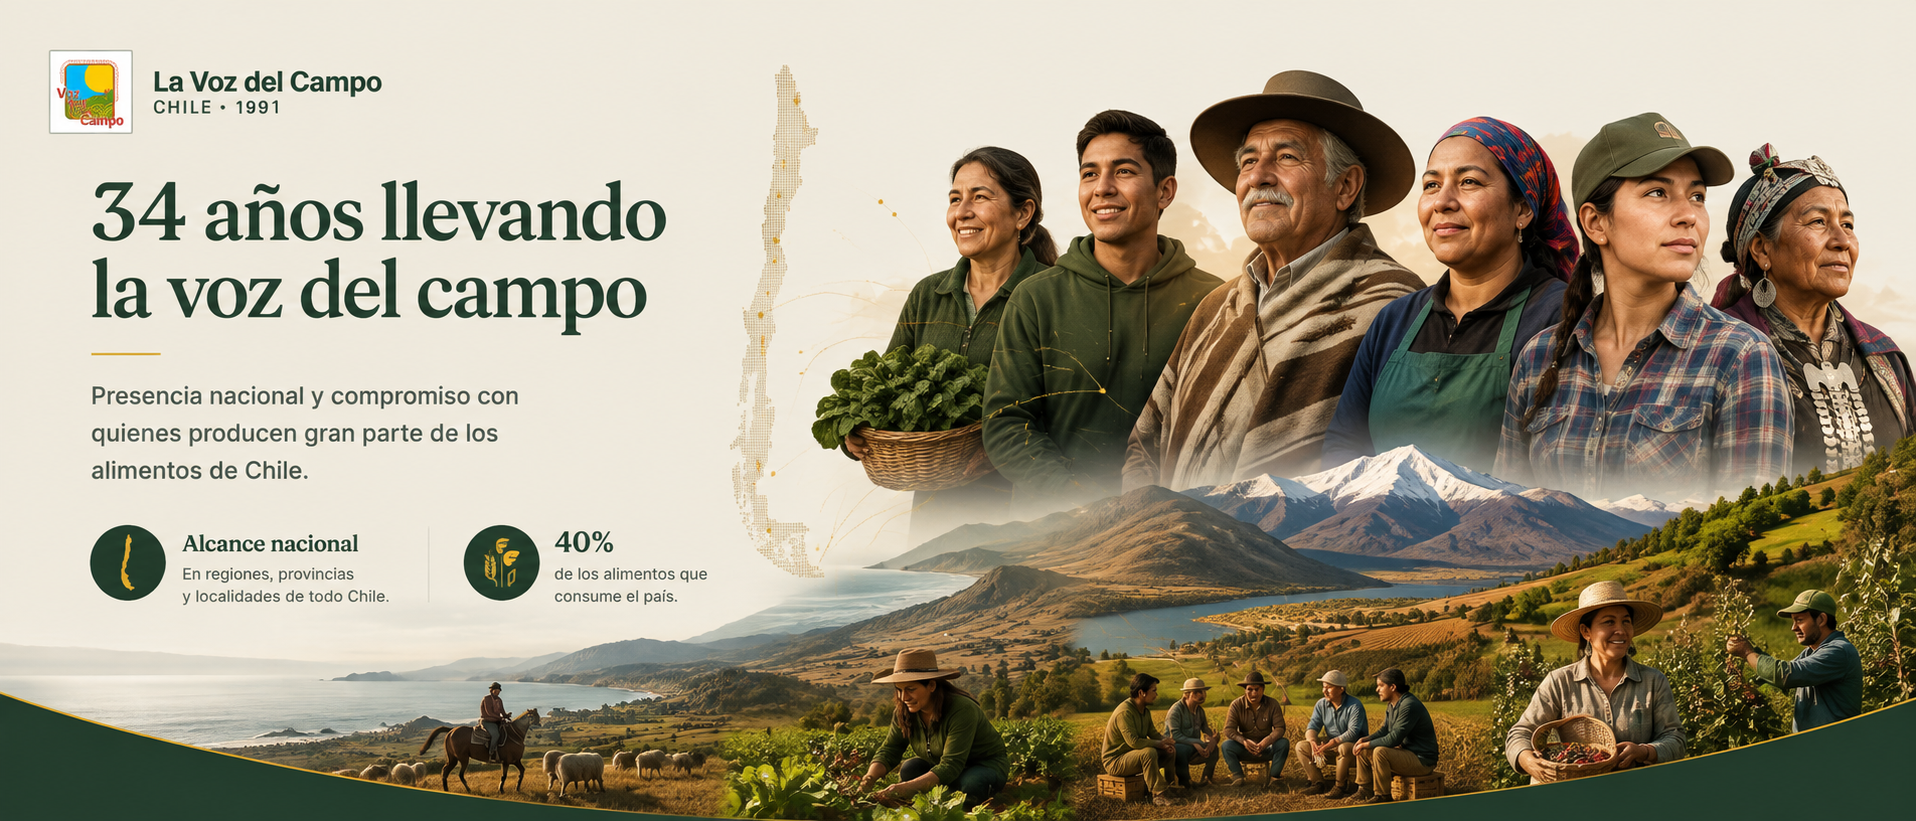
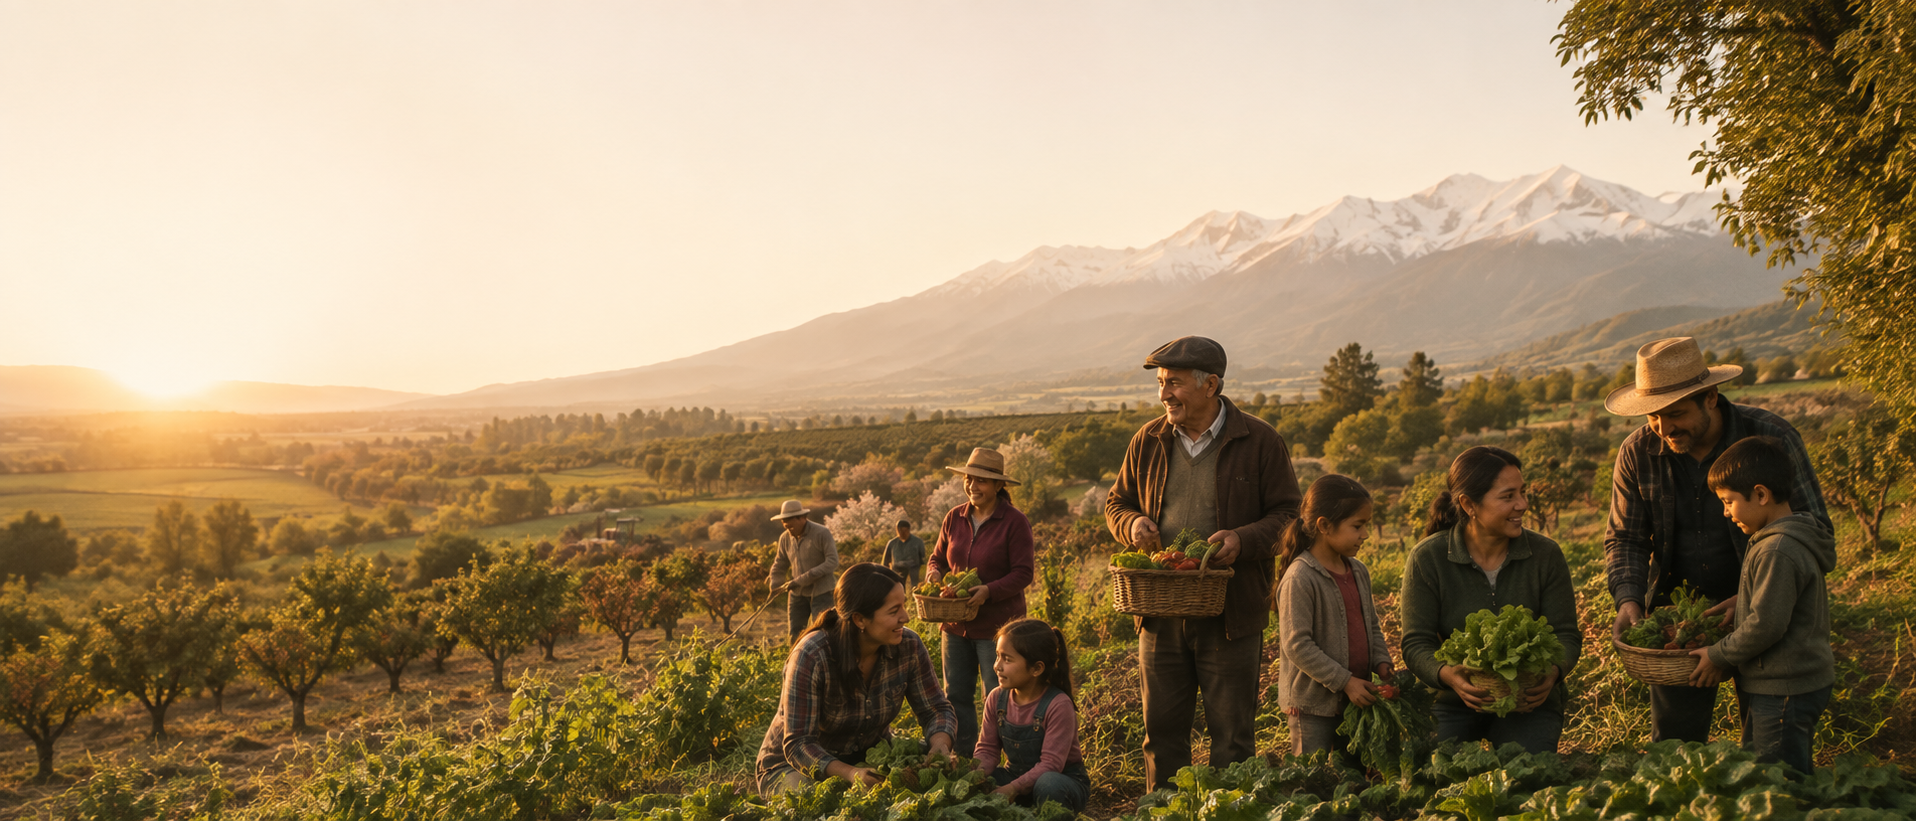
feat: seccion objetivos historicos y organizaciones afiliadas, nuevo carrusel header

diff --git a/index.html b/index.html
@@ -207,6 +207,26 @@ a{text-decoration:none;color:inherit;}
 .dir-info .role{ font-size:13px; color:var(--oro); font-weight:600; margin-top:3px; }
 .dir-info .region{ font-size:12px; color:var(--gris); margin-top:4px; }
 
+/* ===== OBJETIVOS HISTÓRICOS Y ORGANIZACIONES AFILIADAS ===== */
+.historicos{ background:var(--blanco); }
+.hist-grid{ display:grid; grid-template-columns:1fr 1fr; gap:4px 40px; }
+.hist-item{
+  display:flex; gap:12px; align-items:flex-start; padding:16px 0;
+  border-bottom:1px solid var(--linea); font-size:14.5px; color:var(--tinta); line-height:1.6;
+}
+.hist-item .chk{
+  flex-shrink:0; width:24px; height:24px; border-radius:50%;
+  background:var(--verde-cla); color:var(--verde-osc); font-weight:700; font-size:13px;
+  display:flex; align-items:center; justify-content:center; margin-top:1px;
+}
+.afil-grid{ display:grid; grid-template-columns:repeat(auto-fill,minmax(280px,1fr)); gap:14px; }
+.afil-item{
+  display:flex; gap:10px; align-items:center;
+  background:var(--crema); border:1px solid var(--linea); border-radius:12px;
+  padding:16px 18px; font-size:13.5px; color:var(--verde-osc); font-weight:600; line-height:1.4;
+}
+.afil-item .ic{ flex-shrink:0; font-size:16px; }
+
 /* ===== NOTICIAS ===== */
 .noticias{ background:var(--blanco); }
 .not-grid{ display:grid; grid-template-columns:repeat(auto-fill,minmax(300px,1fr)); gap:28px; }
@@ -347,6 +367,7 @@ a{text-decoration:none;color:inherit;}
   .obj-line{ grid-template-columns:1fr 1fr; gap:36px 24px; }
   .obj-line::before{ display:none; }
   .ruta-grid{ grid-template-columns:repeat(2,1fr); }
+  .hist-grid{ grid-template-columns:1fr; }
 }
 @media (max-width:560px){
   .ruta-grid{ grid-template-columns:1fr; }
@@ -502,7 +523,46 @@ a{text-decoration:none;color:inherit;}
   </div>
 </section>
 
-<!-- ===== NOTICIAS ===== -->
+<!-- ===== OBJETIVOS HISTÓRICOS Y ORGANIZACIONES AFILIADAS ===== -->
+<section class="section historicos" id="historia-organizacion">
+  <div class="container">
+    <div class="sec-head center reveal">
+      <span class="sec-eyebrow">Nuestra Historia</span>
+      <h2>Objetivos Históricos</h2>
+      <p>Los principios fundacionales que han guiado a la Confederación desde 1991.</p>
+    </div>
+    <div class="hist-grid">
+      <div class="hist-item reveal"><span class="chk">✓</span><span>Promover el desarrollo de la Agricultura Familiar Campesina, la valoración de la familia y del trabajo campesino.</span></div>
+      <div class="hist-item reveal"><span class="chk">✓</span><span>Ser la voz de la Agricultura Familiar y representarla en las esferas pública y privada.</span></div>
+      <div class="hist-item reveal"><span class="chk">✓</span><span>Proponer políticas agrarias que sirvan al desarrollo de la Agricultura Familiar.</span></div>
+      <div class="hist-item reveal"><span class="chk">✓</span><span>Estimular el desarrollo de sistemas educativos, tecnológicos, crediticios y de comercialización adecuados a las Empresas Agrícolas Familiares.</span></div>
+      <div class="hist-item reveal"><span class="chk">✓</span><span>Trabajar por que la tierra en poder de la Agricultura Familiar cumpla con su función social. Denunciar toda forma de destrucción de los recursos naturales y del medio ambiente.</span></div>
+      <div class="hist-item reveal"><span class="chk">✓</span><span>Trabajar para que la agro-industria sirva a la pequeña agricultura y para mejorar la comercialización de los productos.</span></div>
+      <div class="hist-item reveal"><span class="chk">✓</span><span>Obtener la legislación adecuada para que la Agricultura Familiar se desarrolle integralmente y adquiera una fisonomía propia. Promover leyes que permitan una vida social digna.</span></div>
+      <div class="hist-item reveal"><span class="chk">✓</span><span>Trabajar por incorporar a los 250 mil agricultores familiares a la Confederación Nacional de la Agricultura Familiar Campesina.</span></div>
+      <div class="hist-item reveal"><span class="chk">✓</span><span>Buscar la forma de mantener un debate agrario abierto y participativo con los protagonistas de las diferentes actividades del medio rural.</span></div>
+      <div class="hist-item reveal"><span class="chk">✓</span><span>Defender y profundizar el sistema democrático como única forma de convivencia, de gobierno y de participación social efectiva. Defender los derechos de las familias y comunidades campesinas.</span></div>
+    </div>
+
+    <div class="sec-head center reveal" style="margin-top:72px;">
+      <span class="sec-eyebrow">Red Nacional</span>
+      <h2>Organizaciones Afiliadas</h2>
+      <p>Federaciones y asociaciones gremiales que forman parte de la Confederación en todo Chile.</p>
+    </div>
+    <div class="afil-grid">
+      <div class="afil-item reveal"><span class="ic">🇨🇱</span>Federación de Agricultores y Ganaderos de Aysén (FAGA)</div>
+      <div class="afil-item reveal"><span class="ic">🇨🇱</span>Asociación de Pequeños Agricultores de Chiloé (APACH)</div>
+      <div class="afil-item reveal"><span class="ic">🇨🇱</span>Federación de Curarrehue, Región de la Araucanía</div>
+      <div class="afil-item reveal"><span class="ic">🇨🇱</span>Federación Cordillera de Cautín, Región de la Araucanía</div>
+      <div class="afil-item reveal"><span class="ic">🇨🇱</span>Federación Los Sembradores de Malleco, Región de la Araucanía</div>
+      <div class="afil-item reveal"><span class="ic">🇨🇱</span>Federación Los Copihues de la Araucanía, Nueva Imperial, Región Araucanía</div>
+      <div class="afil-item reveal"><span class="ic">🇨🇱</span>Federación Valle Hermoso, Región de Ñuble</div>
+      <div class="afil-item reveal"><span class="ic">🇨🇱</span>Asociación Gremial de Pequeñas Productoras de Yungay, Región de Ñuble</div>
+      <div class="afil-item reveal"><span class="ic">🇨🇱</span>Mujeres Productoras de la Agricultura (MUPRO) de La Ligua, Región de Aconcagua</div>
+      <div class="afil-item reveal"><span class="ic">🇨🇱</span>Asociación Gremial Regional de Turismo Rural del Norte Chico, Región de Coquimbo</div>
+    </div>
+  </div>
+</section>
 <section class="section noticias" id="noticias">
   <div class="container">
     <div class="sec-head center reveal">
